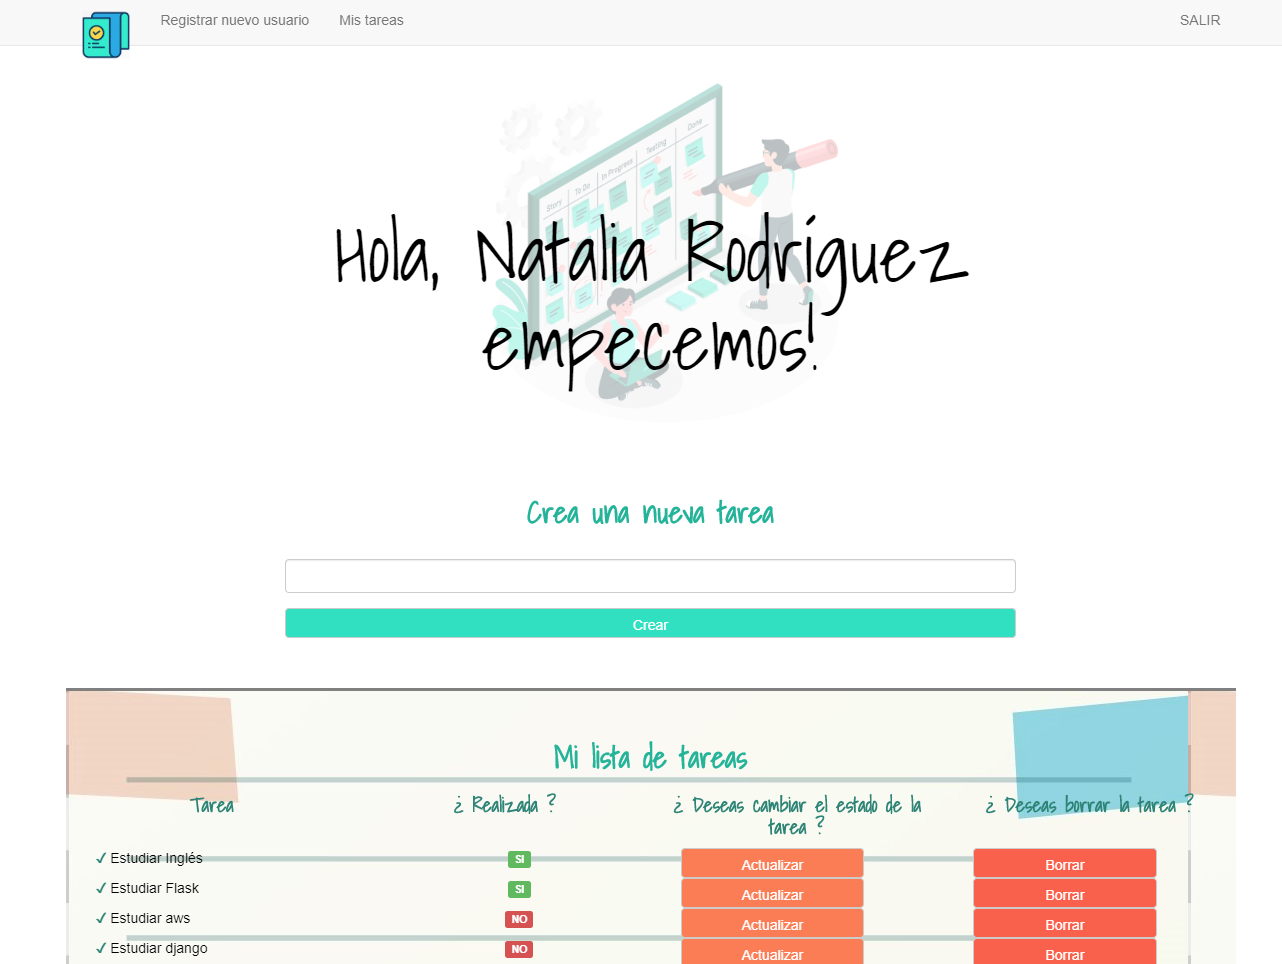
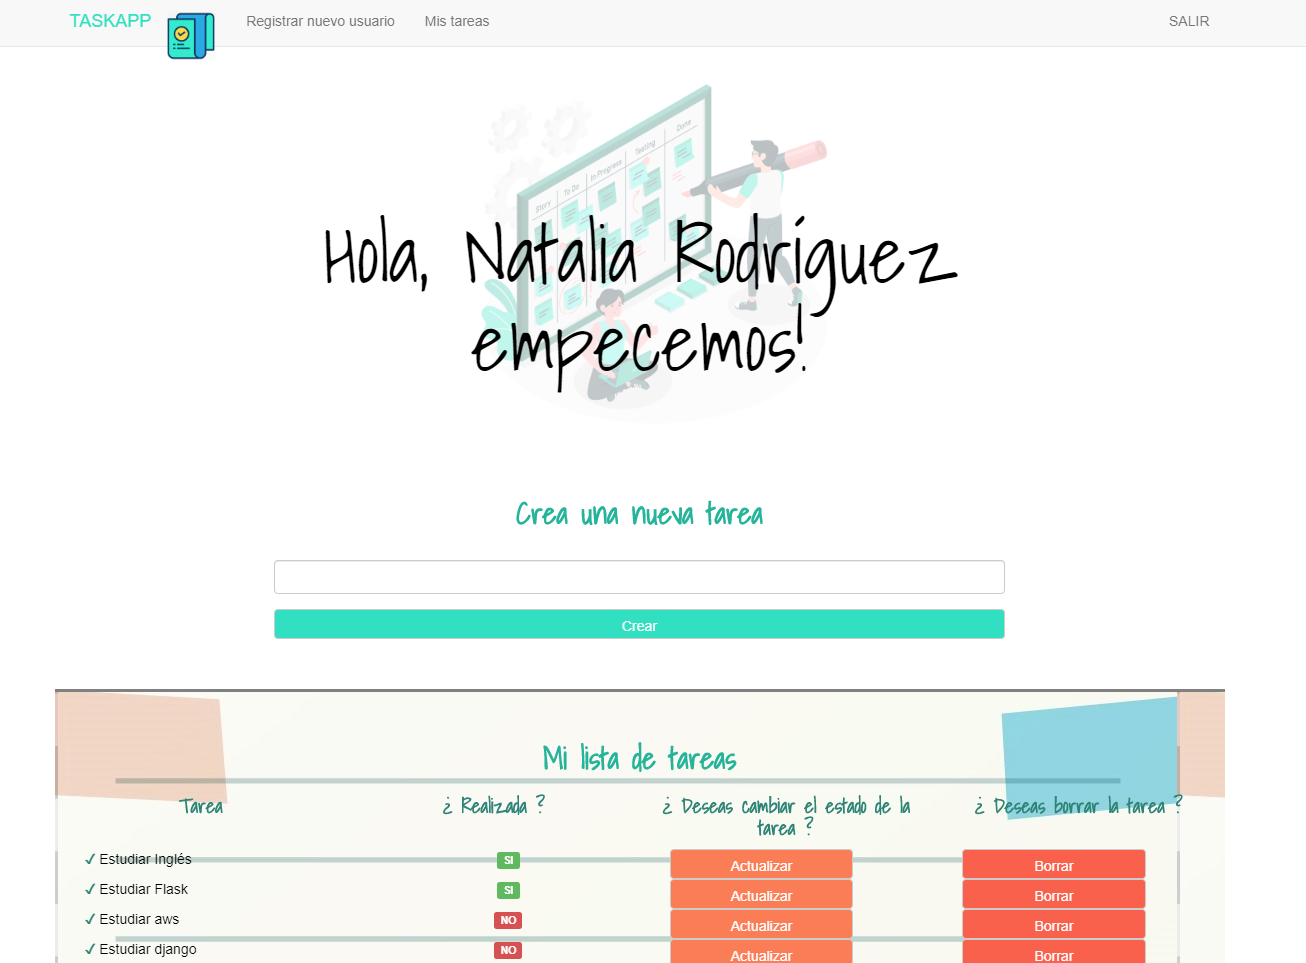
agregado el nombre de la app

diff --git a/app/templates/nav.html b/app/templates/nav.html
@@ -25,8 +25,11 @@
                         data-toggle="collapse"
                         data-target=".navbar-collapse">
                     <span class="sr-only">Toggle navigation</span>
- 
                 </button>
+                <a class="navbar-brand" href="{{ url_for('index') }}">
+                    <p>TASKAPP</p>
+                   
+                </a>
                 <a class="navbar-brand" href="{{ url_for('index') }}">
                     <img src="{{ url_for('static', filename='images/task-page.png') }}"
                          style="max-width: 50px"

diff --git a/app/templates/base.html b/app/templates/base.html
@@ -4,7 +4,7 @@
     {{ super() }}
 
     <title>
-        {% block title %}TareaAPP{% endblock %}
+        {% block title %}TASKAPP{% endblock %}
     </title>
     <link rel="icon" type="favicon.png" href="../static/images/task-page.png" />
     <link rel="stylesheet" href="{{ url_for('static', filename='css/styles.css')}}">
